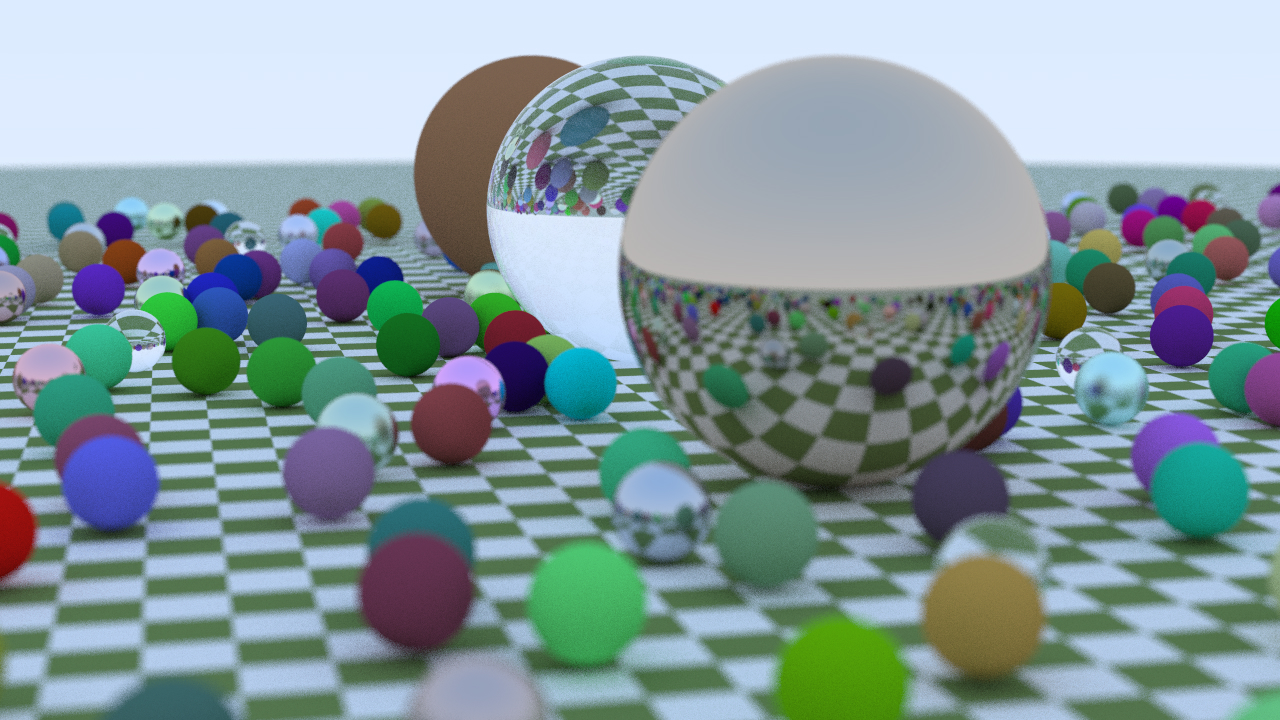
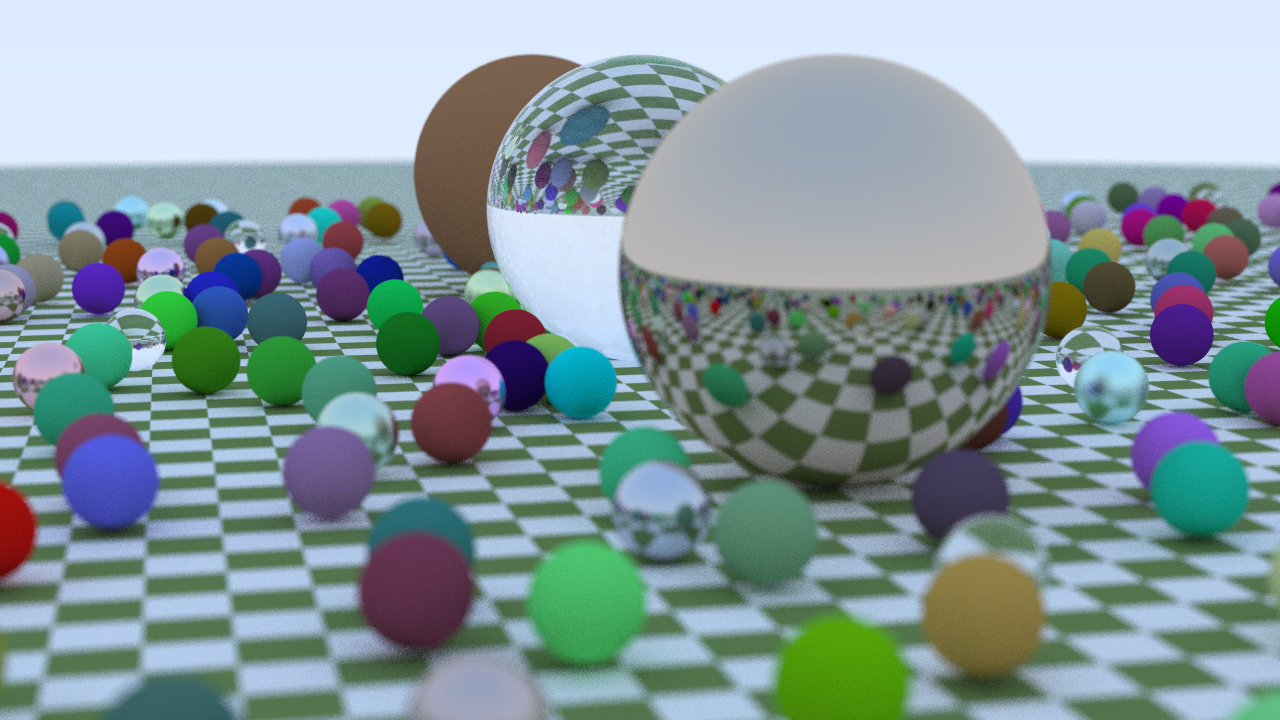
Use top left corner as the camera starting point

diff --git a/include/Camera.hpp b/include/Camera.hpp
@@ -19,8 +19,8 @@ class Camera {
     origin = look_from;
     horizontal = focus_distance * viewport_width * u;
     vertical = focus_distance * viewport_height * v;
-    lower_left_corner =
-        origin - horizontal / 2 - vertical / 2 - focus_distance * w;
+    top_left_corner =
+        origin - horizontal / 2 + vertical / 2 - focus_distance * w;
 
     lens_radius = aperture / 2;
   }
@@ -29,13 +29,13 @@ class Camera {
     Vec3 rd = lens_radius * random_in_unit_circle();
     Vec3 offset = u * rd.x() + v * rd.y();
 
-    return Ray(origin + offset, lower_left_corner + s * horizontal +
+    return Ray(origin + offset, top_left_corner + s * horizontal -
                                     t * vertical - origin - offset);
   }
 
  private:
   Point3 origin;
-  Point3 lower_left_corner;
+  Point3 top_left_corner;
   Vec3 horizontal;
   Vec3 vertical;
   Vec3 u, v, w;

diff --git a/RayTracer/main.cpp b/RayTracer/main.cpp
@@ -137,7 +137,7 @@ int main() {
 
   for (int t = 0; t < num_threads; ++t) {
     threads[t] = std::thread([&, t]() {
-      for (int j = image_height - 1 - t; j >= 0; j -= num_threads) {
+      for (int j = t; j < image_height; j += num_threads) {
         for (int i = 0; i < image_width; ++i) {
           Color pixel_color(0, 0, 0);
           for (int s = 0; s < samples_per_pixel; ++s) {
@@ -146,8 +146,7 @@ int main() {
           }
 
           std::lock_guard<std::mutex> guard(pixels_mutex);
-          pixels[(image_height - j - 1) * image_width + i] =
-              (pixel_color / samples_per_pixel);
+          pixels[i + (j * image_width)] = (pixel_color / samples_per_pixel);
           progress_count++;
         }
         print_progress(progress_count / total_pixels);

diff --git a/README.md b/README.md
@@ -16,3 +16,4 @@ To build and run simply use
 - He uses the ppm file format to save the images and mentions using the stb_image library for other formats so I created an image class in lib/image.hpp that write to different file formats. Currently the only file formats I support are ppm and jpg but I could easily use stb_image to add more.
 - The strategy for hemispherical rendering is useful for creating rays pointing outward or inward from the hit point which could be useful for subsurface scattering. I'll have to do some research to see if this initial thought is correct...
 - I'm trying to implement multithreading for the rendering loops. I want each line of pixels to be rendered by a different thread. I keep getting bad images. I have a mutex guard on the vector that holds all the pixels of the image, but I realized that the order of the pixels isn't being preserved since each thread inserts it's  pixel at different times. I could find a way to preserve the order while inserting but that would probably slow things down. I could map each pixel to it's x,y pair, then I'd have to reorder the pixels or rewrite the image write function to account for this new structure. I also could reserve enough space for all the pixels for the vector and insert each pixel directly where it belongs in the vector so that the order is preserved and I don't have to change the data structure. I used this last method and it works but the image is upside down for some reason. This is due to the origin being at the bottom left instead of the top left like I thought. I used this equation, i + (j * image_width), to calculate the insert location in the pixels vector. That equation was for a coordinate system with origin at the top left. I modified the equation to (image_height - j - 1) * image_width + i. I could also change the Camera class to have an origin at the top left, I'd like to do this eventually since it would bring more consistency to the rendering loop. I've kept most of the failure images in the img/threading_fails directory. 4 is my favorite which was caused by me naively multiplying i and j for the pixels index.
+- I've changed the Camera class to use the top left corner as a starting point instead of the lower left corner. This simplifies the rendering loop solutions I came up with to add multithreading.
